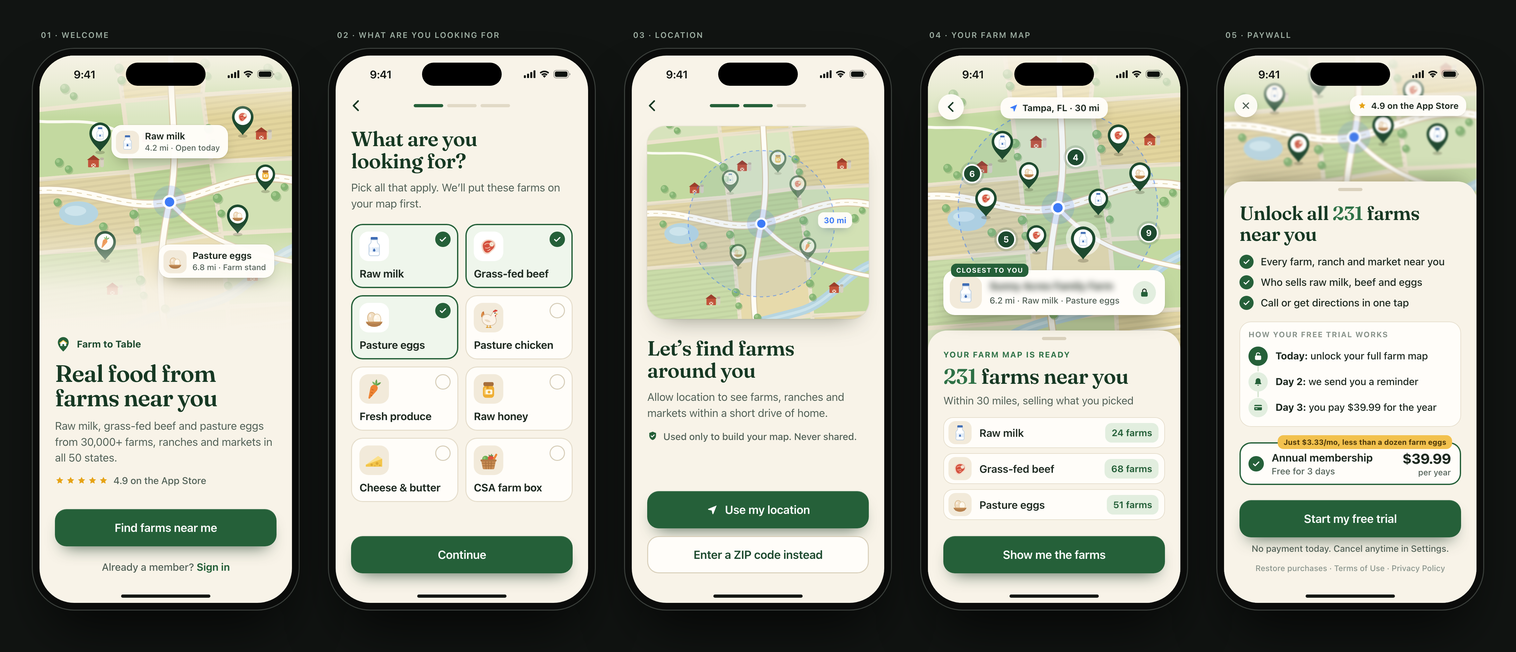
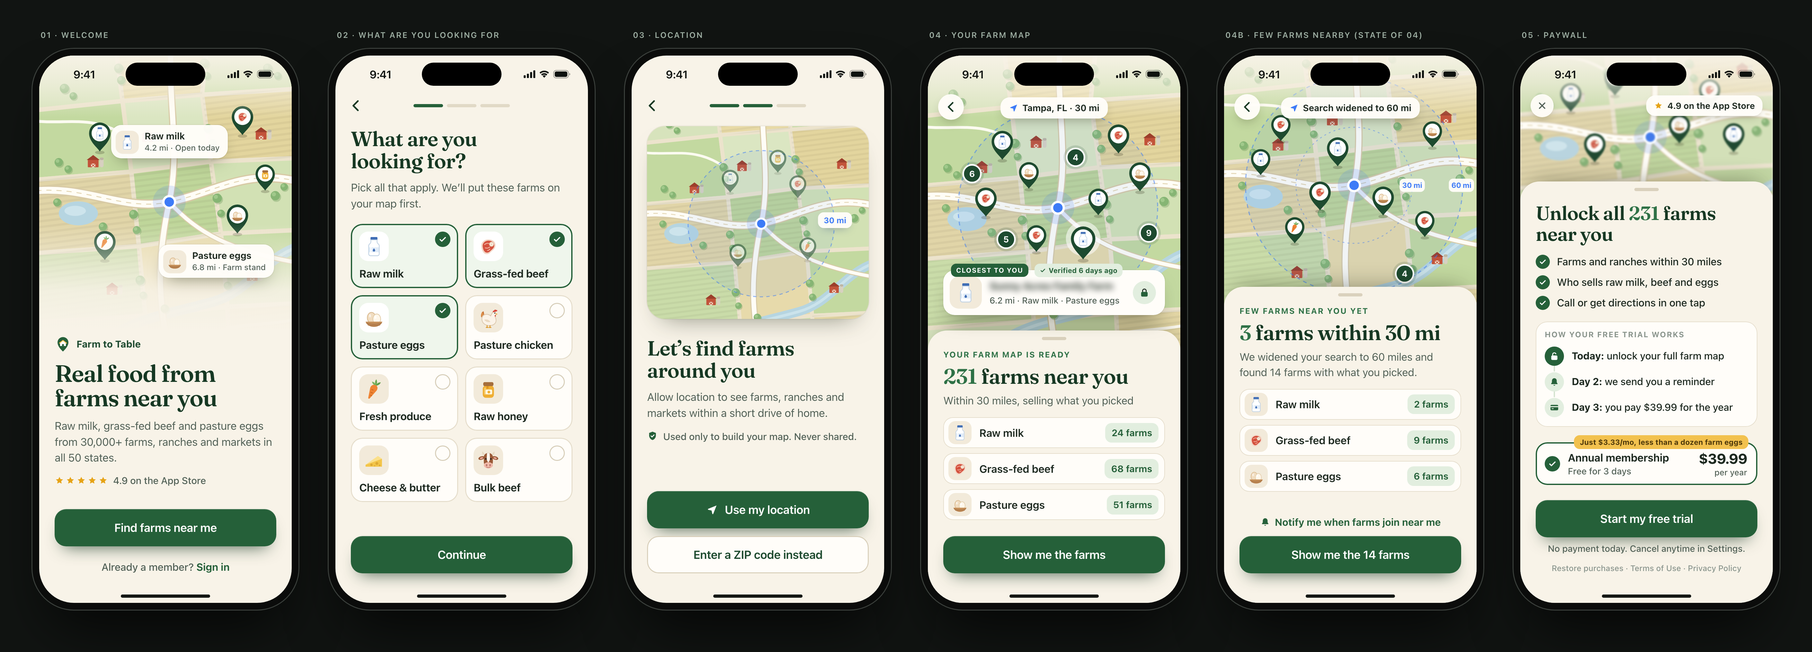
Add low-coverage state, verified badge and bulk beef tile after research

diff --git a/index.html b/index.html
@@ -11,7 +11,7 @@
 <meta property="og:title" content="Farm to Table: онбординг и пейвол">
 <meta property="og:description" content="Тестовое задание на менеджера по монетизации: 4 экрана онбординга и пейвол, HTML в размере iPhone 393×852.">
 <meta property="og:image" content="https://nikit34.github.io/farm-to-table-onboarding/png/00_overview.png">
-<meta property="og:image:width" content="4720">
+<meta property="og:image:width" content="5640">
 <meta property="og:image:height" content="2030">
 <meta name="twitter:card" content="summary_large_image">
 <link rel="preconnect" href="https://fonts.googleapis.com">
@@ -36,7 +36,7 @@ html,body{background:#111412;color:#E6EBE7;font-family:var(--sans);-webkit-font-
 .tbtn{padding:11px 16px;border-radius:12px;background:#1E2420;color:#E6EBE7;font:600 14px/1 var(--sans);box-shadow:inset 0 0 0 1px #313933}
 .tbtn.on{background:#E6EBE7;color:#111412}
 
-.board{display:flex;flex-wrap:wrap;justify-content:center;gap:60px 44px;max-width:2400px;margin:0 auto;padding:40px 24px 30px}
+.board{display:flex;flex-wrap:wrap;justify-content:center;gap:60px 44px;max-width:2900px;margin:0 auto;padding:40px 24px 30px}
 .shot{width:417px;display:flex;flex-direction:column;align-items:center}
 .shot-label{align-self:flex-start;margin:0 0 14px 14px;color:#9FB0A4;font:600 12.5px/1 var(--sans);letter-spacing:1.4px;text-transform:uppercase}
 .frame{width:417px;height:876px;padding:12px;border-radius:66px;background:#0B0C0B;box-shadow:inset 0 0 0 1.5px #3B403C,0 50px 90px -30px rgba(0,0,0,.75)}
@@ -66,7 +66,7 @@ html,body{background:#111412;color:#E6EBE7;font-family:var(--sans);-webkit-font-
 
 .map.hero{top:0;left:0;right:0;height:452px}
 .map.hero:after{content:"";position:absolute;left:0;right:0;bottom:0;height:190px;background:linear-gradient(180deg,rgba(248,243,232,0) 0%,rgba(248,243,232,.88) 55%,var(--cream) 88%)}
-.map.hero:before,.map.full:before,.map.strip:before{content:"";position:absolute;z-index:1;left:0;right:0;top:0;height:96px;background:linear-gradient(180deg,rgba(248,243,232,.94) 0%,rgba(248,243,232,.6) 45%,rgba(248,243,232,0) 100%);pointer-events:none}
+.map.hero:before,.map.full:before,.map.strip:before,.map.low:before{content:"";position:absolute;z-index:1;left:0;right:0;top:0;height:96px;background:linear-gradient(180deg,rgba(248,243,232,.94) 0%,rgba(248,243,232,.6) 45%,rgba(248,243,232,0) 100%);pointer-events:none}
 .mchip{position:absolute;z-index:5;display:flex;align-items:center;gap:9px;padding:7px 13px 7px 7px;border-radius:16px;background:rgba(255,253,249,.97);box-shadow:0 12px 26px -12px rgba(45,52,30,.55),0 0 0 1px rgba(60,50,20,.06)}
 .mchip .mi{width:36px;height:36px;border-radius:11px;background:var(--cream2);display:grid;place-items:center}
 .mchip .mi svg{width:27px;height:27px}
@@ -172,7 +172,13 @@ html,body{background:#111412;color:#E6EBE7;font-family:var(--sans);-webkit-font-
 .fine{position:absolute;z-index:21;left:0;right:0;bottom:76px;text-align:center;color:var(--ink2);font:500 14px/1.2 var(--sans)}
 .legal{position:absolute;z-index:21;left:0;right:0;bottom:48px;text-align:center;color:var(--ink3);font:500 12.5px/1 var(--sans)}
 
-.extra{max-width:1320px;margin:0 auto;padding:10px 32px 70px;display:grid;grid-template-columns:1.25fr 1fr;gap:28px}
+.extra{max-width:1320px;margin:0 auto;padding:10px 32px 70px;display:grid;grid-template-columns:1.25fr 1fr;gap:28px;align-items:start}
+.extra .col{display:flex;flex-direction:column;gap:28px}
+.fc-tag.v{left:142px;display:flex;align-items:center;gap:4px;background:var(--g100);color:var(--g700);letter-spacing:0;text-transform:none;font-size:11px}
+.fc-tag.v svg{width:10px;height:10px}
+.map.low{top:0;left:0;right:0;height:400px}
+.notify{position:absolute;z-index:21;left:0;right:0;bottom:118px;display:flex;align-items:center;justify-content:center;gap:7px;color:var(--g700);font:650 15.5px/1 var(--sans)}
+.notify svg{width:16px;height:16px;fill:currentColor}
 .card{padding:26px 28px;border-radius:22px;background:#181D19;box-shadow:inset 0 0 0 1px #262E28}
 .card h2{font-family:var(--serif);font-weight:600;font-size:24px;letter-spacing:-.2px;color:#F4F1E8}
 .card p,.card li{margin-top:12px;color:#C4CEC7;font-size:15px;line-height:1.62}
@@ -341,14 +347,19 @@ body.overview .pulse{animation:none;opacity:.16}
     <path d="M6.6 33.2L40.6 20.8L32.2 15.2Z" fill="#FBE08A"/>
     <circle cx="18.8" cy="33.4" r="2.4" fill="#DCA835"/><circle cx="30" cy="30.6" r="2.9" fill="#DCA835"/><circle cx="35.8" cy="34.6" r="1.6" fill="#DCA835"/><circle cx="25.4" cy="35.6" r="1.2" fill="#DCA835"/>
   </symbol>
-  <symbol id="ic-basket" viewBox="0 0 48 48">
-    <circle cx="17.6" cy="21.4" r="6.8" fill="#6FAE55"/><circle cx="15.4" cy="19.4" r="2.6" fill="#8CC571"/>
-    <circle cx="28.8" cy="20.2" r="6.2" fill="#DE523D"/>
-    <path d="M28.8 14.4l1.6-2.6M26.8 14.9l-1.9-1.6M30.9 15l2-1" stroke="#4E8A3E" stroke-width="1.7" stroke-linecap="round"/>
-    <path d="M34.2 23.4L40 12.6" stroke="#EE8434" stroke-width="4.2" stroke-linecap="round"/>
-    <path d="M8.8 24.6h30.4l-3 15.6a3 3 0 0 1-3 2.5H14.8a3 3 0 0 1-3-2.5z" fill="#C98E55"/>
-    <path d="M10.4 30.2h27.2M11.4 35.6h25.2M18 24.6l1 18M24 24.6v18M30 24.6l-1 18" stroke="#A8703D" stroke-width="1.5"/>
-    <rect x="7.4" y="22.4" width="33.2" height="4.2" rx="2.1" fill="#B37A45"/>
+  <symbol id="ic-bulk" viewBox="0 0 48 48">
+    <path d="M13.4 13.2c-2.4-2.3-3-5.4-1.7-7.6 1.6 1.4 3.4 3.4 4.6 5.6z" fill="#E6D9C2"/>
+    <path d="M34.6 13.2c2.4-2.3 3-5.4 1.7-7.6-1.6 1.4-3.4 3.4-4.6 5.6z" fill="#E6D9C2"/>
+    <ellipse cx="9.6" cy="19.4" rx="6.4" ry="3.6" transform="rotate(-18 9.6 19.4)" fill="#9A5A37"/>
+    <ellipse cx="9.9" cy="19.6" rx="3.6" ry="1.8" transform="rotate(-18 9.9 19.6)" fill="#E8A898"/>
+    <ellipse cx="38.4" cy="19.4" rx="6.4" ry="3.6" transform="rotate(18 38.4 19.4)" fill="#9A5A37"/>
+    <ellipse cx="38.1" cy="19.6" rx="3.6" ry="1.8" transform="rotate(18 38.1 19.6)" fill="#E8A898"/>
+    <path d="M14.6 17.4c0-5 4.2-8.6 9.4-8.6s9.4 3.6 9.4 8.6v9.8c0 2.4-.6 4.6-1.8 6.4H16.4c-1.2-1.8-1.8-4-1.8-6.4z" fill="#9A5A37"/>
+    <path d="M21.2 9.3c.8-.3 1.8-.5 2.8-.5s2 .2 2.8.5l.6 10.4c.2 3.4-1.1 6.6-3.4 8.8-2.3-2.2-3.6-5.4-3.4-8.8z" fill="#FBF6EE"/>
+    <circle cx="18.8" cy="21.2" r="1.7" fill="#2A2320"/><circle cx="29.2" cy="21.2" r="1.7" fill="#2A2320"/>
+    <ellipse cx="24" cy="34.4" rx="9.4" ry="6.4" fill="#F0B9A8"/>
+    <ellipse cx="20.4" cy="34.2" rx="1.6" ry="2.2" fill="#B8726A"/><ellipse cx="27.6" cy="34.2" rx="1.6" ry="2.2" fill="#B8726A"/>
+    <path d="M20.2 38.2c2.4 1.4 5.2 1.4 7.6 0" fill="none" stroke="#B8726A" stroke-width="1.2" stroke-linecap="round"/>
   </symbol>
 
   <symbol id="logo" viewBox="0 0 32 32">
@@ -377,7 +388,7 @@ body.overview .pulse{animation:none;opacity:.16}
 
 <header class="page-head">
   <h1>Farm to Table: онбординг и пейвол</h1>
-  <p>Тестовое задание на менеджера по монетизации, Viralyze. Четыре экрана онбординга и пейвол в реальном размере iPhone 15 и 16 (393×852 pt), тексты на английском. Всё кликабельно: выбор продуктов на втором экране меняет экран с фермами и текст пейвола, кнопки ведут дальше по воронке.</p>
+  <p>Тестовое задание на менеджера по монетизации, Viralyze. Четыре экрана онбординга и пейвол в реальном размере iPhone 15 и 16 (393×852 pt), плюс состояние экрана 4 для района, где мало ферм. Тексты на английском. Всё кликабельно: выбор продуктов на втором экране меняет экран с фермами и текст пейвола, кнопки ведут дальше по воронке.</p>
   <div class="toolbar">
     <button class="tbtn on" data-mode="board">Все экраны</button>
     <button class="tbtn" data-mode="proto">Пройти как прототип</button>
@@ -427,7 +438,7 @@ body.overview .pulse{animation:none;opacity:.16}
     </div></div>
     <div class="note">
       <p><b>Зачем.</b> Один вопрос вместо цепочки «ценности, диета, категории, стейплы». Ответ работает дважды: на экране 4 показываем фермы по выбранным продуктам, в пейволе подставляем их в текст.</p>
-      <p><b>Крупные плитки</b> с иллюстрацией и подписью от 16 px, выбор без лимита: аудитории 35-65 так проще, чем мелкие чипсы.</p>
+      <p><b>Крупные плитки</b> с иллюстрацией и подписью от 16 px, выбор без лимита: аудитории 35-65 так проще, чем мелкие чипсы. <b>Bulk beef</b> вместо CSA-бокса: покупка говядины тушей у ранчо - гипотеза сегмента с крупным чеком и возможной платой за лид, и выбор этой плитки даёт данные о спросе без разработки.</p>
       <p><b>Метрика:</b> доля завершивших шаг, среднее число выбранных продуктов.</p>
     </div>
   </section>
@@ -465,6 +476,7 @@ body.overview .pulse{animation:none;opacity:.16}
       <div class="citytag"><svg><use href="#i-nav"/></svg>Tampa, FL · 30 mi</div>
       <div class="farmcard">
         <span class="fc-tag">Closest to you</span>
+        <span class="fc-tag v"><svg><use href="#i-check"/></svg>Verified 6 days ago</span>
         <span class="fc-ic"><svg><use href="#ic-milk"/></svg></span>
         <div class="fc-body"><div class="fc-name"><span class="blur">Sunny Acres Family Farm</span></div><div class="fc-meta">6.2 mi · Raw milk · Pasture eggs</div></div>
         <span class="fc-lock"><svg><use href="#i-lock"/></svg></span>
@@ -482,9 +494,37 @@ body.overview .pulse{animation:none;opacity:.16}
       <div class="homebar"></div>
     </div></div>
     <div class="note">
-      <p><b>Главный экран воронки.</b> До оплаты показываем реальное число ферм рядом и карточку ближайшей фермы со скрытым названием. Это ответ на частую жалобу в отзывах Localize и Farm to Table: просят платить раньше, чем видно, есть ли фермы рядом («After I signed up it only showed one farm in all of Marin County»).</p>
-      <p><b>Если ферм мало,</b> показываем честную версию с большим радиусом: меньше отмен в триале, рефандов и отзывов с одной звездой.</p>
-      <p><b>Метрика:</b> CTR в пейвол, отмены триала и рефанды в разрезе покрытия региона.</p>
+      <p><b>Главный экран воронки.</b> В V2 похожий экран уже есть на шаге 10 из 29 («231 farms near you»). Здесь меняются три вещи: число считается из базы по радиусу и выбранным продуктам, экран стоит прямо перед пейволом, а карточка ближайшей фермы со скрытым названием показывает, что откроется после оплаты.</p>
+      <p><b>Дата проверки</b> на карточке отвечает на первую жалобу всей категории, включая бесплатные приложения: закрытые и несуществующие фермы. Её не показывает ни один из восьми конкурентов. Бейдж «Verified» только у ферм, которые реально проверили звонком или SMS, у остальных честное «Updated» с датой.</p>
+      <p><b>Метрика:</b> CTR в пейвол, trial → paid и рефанды в разрезе покрытия района.</p>
+    </div>
+  </section>
+
+  <section class="shot" data-n="4b">
+    <div class="shot-label">04b · Few farms nearby (state of 04)</div>
+    <div class="frame"><div class="phone" lang="en">
+      <div class="island"></div>
+      <div class="sb"><span>9:41</span><span class="ic"><svg width="18" height="12"><use href="#sb-signal"/></svg><svg width="16" height="12"><use href="#sb-wifi"/></svg><svg width="27" height="13"><use href="#sb-batt"/></svg></span></div>
+      <div class="map low" data-map="low"></div>
+      <button class="mapbtn" data-go="3" aria-label="Back"><svg><use href="#i-chev"/></svg></button>
+      <div class="citytag"><svg><use href="#i-nav"/></svg>Search widened to 60 mi</div>
+      <div class="sheet s4" style="top:360px">
+        <div class="handle"></div>
+        <div class="sheet-in">
+          <div class="eyebrow">Few farms near you yet</div>
+          <h1 class="title"><span class="num">3</span> farms within 30 mi</h1>
+          <p class="sub">We widened your search to 60 miles and found 14 farms with what you picked.</p>
+          <div class="rows" id="rowsLow"></div>
+        </div>
+      </div>
+      <div class="notify"><svg><use href="#i-bell"/></svg>Notify me when farms join near me</div>
+      <button class="cta" data-go="5" style="bottom:46px">Show me the 14 farms</button>
+      <div class="homebar"></div>
+    </div></div>
+    <div class="note">
+      <p><b>Состояние экрана 4, а не отдельный шаг.</b> Если в 30 милях меньше 10 ферм, радиус сам расширяется до 60, потом до 100 миль, и экран честно называет цифры. Если ферм нет и в 100 милях, пейвол не показываем, остаётся «Notify me when farms join».</p>
+      <p><b>Зачем.</b> У Farm to Table уже есть отзывы «одна ферма на весь Marin County» и требование вернуть деньги. Честный экран снижает рефанды и заодно показывает, в каких районах реклама не окупится: туда её лучше не закупать.</p>
+      <p><b>Метрика:</b> доля показов этого состояния, trial → paid и рефанды в нём против экрана 4.</p>
     </div>
   </section>
 
@@ -501,7 +541,7 @@ body.overview .pulse{animation:none;opacity:.16}
         <div class="sheet-in">
           <h1 class="title">Unlock all <span class="num">231</span> farms<br>near you</h1>
           <ul class="benefits">
-            <li><span class="bi"><svg><use href="#i-check"/></svg></span>Every farm, ranch and market near you</li>
+            <li><span class="bi"><svg><use href="#i-check"/></svg></span>Farms and ranches within 30 miles</li>
             <li><span class="bi"><svg><use href="#i-check"/></svg></span><span id="sells">Who sells raw milk, beef and eggs</span></li>
             <li><span class="bi"><svg><use href="#i-check"/></svg></span>Call or get directions in one tap</li>
           </ul>
@@ -525,7 +565,7 @@ body.overview .pulse{animation:none;opacity:.16}
       <div class="homebar"></div>
     </div></div>
     <div class="note">
-      <p><b>Зачем.</b> Заголовок продолжает экран 4, продукты в списке подставляются из шага 2. Таймлайн триала с напоминанием на второй день взят у AllTrails и PictureThis: у аудитории 35-65 частый страх перед триалом - незаметное списание.</p>
+      <p><b>Зачем.</b> Заголовок продолжает экран 4, продукты в списке подставляются из шага 2. Таймлайн триала с напоминанием на второй день взят у AllTrails и PictureThis: у аудитории 35-65 частый страх перед триалом - незаметное списание. По RevenueCat, около 55% отмен 3-дневного триала приходится на день оформления, поэтому обещание должно совпадать с тем, что человек сразу увидит на карте: отсюда «within 30 miles», а не «every farm».</p>
       <p><b>Цена.</b> Годовая $39.99 крупнее пересчёта в месяц, как требует Apple (App Review 3.1.2). Вместо зачёркнутой цены якорь из жизни ЦА: $3.33 в месяц дешевле дюжины фермерских яиц ($6.20 в вашем же квизе).</p>
       <p><b>A/B против V1:</b> trial → pay и выручка на установку по когортам 30 дней, плюс рефанды. Плашку распродажи из V1.1 можно добавить через тот же remote config, если она выиграет.</p>
     </div>
@@ -536,9 +576,10 @@ body.overview .pulse{animation:none;opacity:.16}
 <section class="extra">
   <div class="card">
     <h2>Как делал</h2>
-    <ul class="proc"><li><b>Референсы.</b> Конкуренты из App Store по «farmers market»: <a href="https://apps.apple.com/us/app/localize-farmers-market/id6756440767">Localize</a> на 16 тыс. оценок и Locally Grown, плюс отзывы на них и на <a href="https://apps.apple.com/us/app/farm-to-table-farmers-market/id6775965172">Farm to Table</a>. Главная жалоба: оплату просят раньше, чем видно, есть ли фермы рядом, поэтому экран с числом ферм стоит до пейвола.</li><li><b>Пейвол.</b> Собран по паттернам из библиотеки <a href="https://paywallscreens.com">paywallscreens</a> от Superwall: у AllTrails взял карту сверху и таймлайн триала, у Fishbrain пины на карте рядом с пользователем, у PictureThis ту же цену $39.99 в год с пересчётом в месяц и напоминание до конца триала, а его аудитория ближе всего к нашим 35-65.</li><li><b>Инструменты.</b> Всё собрано в Claude (Claude Code): HTML в размере iPhone 393×852, иллюстрации карты и иконки продуктов нарисованы им же в SVG, без стоков и дизайнера, английские тексты тоже писал с ним, с упором на тон для американцев 35-65.</li><li><b>Постановка.</b> Задачу поставил одним брифом, он ниже, дальше правил по скриншотам каждого экрана.</li><li><b>Итерации.</b> Четыре: структура и тексты, чистка наложений по скриншотам, исправление бага с пустыми строками на экране 4 и новая иконка курицы вместо окорочка, который читался как апельсин, финальная полировка и экспорт PNG в 3x.</li></ul>
+    <ul class="proc"><li><b>Референсы.</b> Конкуренты из App Store по «farmers market» (<a href="https://apps.apple.com/us/app/localize-farmers-market/id6756440767">Localize</a> на 16 тыс. оценок, Locally Grown, Farmstand, Soko) и 32 отзыва на них и на <a href="https://apps.apple.com/us/app/farm-to-table-farmers-market/id6775965172">Farm to Table</a>, разобранные по AJTBD: главная жалоба всей категории - закрытые фермы и пустые районы, которые видно только после оплаты, поэтому число ферм стоит прямо перед пейволом, а у пустого района есть честное состояние.</li><li><b>Пейвол.</b> Собран по паттернам из библиотеки <a href="https://paywallscreens.com">paywallscreens</a> от Superwall: у AllTrails взял карту сверху и таймлайн триала, у Fishbrain пины на карте рядом с пользователем, у PictureThis ту же цену $39.99 в год с пересчётом в месяц и напоминание до конца триала, а его аудитория ближе всего к нашим 35-65.</li><li><b>Инструменты.</b> Всё собрано в Claude (Claude Code): HTML в размере iPhone 393×852, иллюстрации карты и иконки продуктов нарисованы им же в SVG, без стоков и дизайнера, английские тексты тоже писал с ним, с упором на тон для американцев 35-65.</li><li><b>Постановка.</b> Задачу поставил одним брифом, он ниже, дальше правил по скриншотам каждого экрана.</li><li><b>Итерации.</b> Пять: структура и тексты; чистка наложений по скриншотам; исправление бага с пустыми строками на экране 4 и новая иконка курицы вместо окорочка, который читался как апельсин; полировка и экспорт PNG в 3x; после разбора отзывов, конкурентов и трендов - состояние для района с малым покрытием, дата проверки на карточке фермы, плитка Bulk beef вместо CSA-бокса и честная формулировка первой выгоды в пейволе.</li></ul>
     <div class="prompt" id="promptText">Собери в одном HTML пять экранов iPhone 393×852 для Farm to Table: карта ферм и фермерских рынков в США, ЦА 35-65, подписка $39.99 в год с 3 днями бесплатно. Экраны: приветствие, выбор продуктов, праймер геолокации с запасным ZIP-кодом, «231 ферма рядом» с карточкой ближайшей фермы, где название скрыто, и пейвол. Референсы: пейволы AllTrails (карта сверху, таймлайн триала), Fishbrain (пины рядом с пользователем), PictureThis (та же цена, напоминание до конца триала). Стиль: тёплый кремовый фон, тёмно-зелёный бренд как в текущем приложении, заголовки serif, текст от 16 px, кнопки от 56 px. Иллюстрации карты и иконки продуктов нарисуй сам в SVG, без стоков. Тексты на английском, без таймеров и зачёркнутых цен, годовая цена крупнее пересчёта в месяц. Выбор продуктов на шаге 2 подставь в экран 4 и в текст пейвола.</div>
   </div>
+  <div class="col">
   <div class="card">
     <h2>Что заметил в живой воронке</h2>
     <ul>
@@ -547,20 +588,29 @@ body.overview .pulse{animation:none;opacity:.16}
       <li><b>Онбординг обещает сделки</b> и экономию $1,500 в год, а в списке того, что входит в подписку, сделок нет. Такой разрыв ожиданий бьёт по отменам триала и по отзывам, в App Store уже есть: «you have to be better than google search near me».</li>
     </ul>
   </div>
+  <div class="card">
+    <h2>С чего бы начал</h2>
+    <ul>
+      <li><b>Проверить, считается ли число 231 из базы.</b> Если это фиксированная цифра, жалобы вида «после оплаты одна ферма на округ» будут повторяться при любом пейволе.</li>
+      <li><b>Первым тестом - пейвол в Adapty</b> внутри текущего онбординга: без релиза, метрика trial → paid, при бенчмарке RevenueCat 25.5% нужно 1.2-2.1 тыс. триалов на вариант. Онбординг тестировать целиком и только на крупный эффект.</li>
+      <li><b>Закупать рекламу по плотности покрытия.</b> Где рядом мало ферм с нужным продуктом, онбординг не перевесит бесплатный Google Maps, а рефанды приходят как раз оттуда. Разделить кампании на плотные и тонкие районы и сравнить trial → paid и рефанды за 30 дней.</li>
+    </ul>
+  </div>
+  </div>
 </section>
 
 <script>
 const ITEMS = {
-  milk:{name:'Raw milk',short:'raw milk',count:24},
-  beef:{name:'Grass-fed beef',short:'beef',count:68},
-  eggs:{name:'Pasture eggs',short:'eggs',count:51},
-  chicken:{name:'Pasture chicken',short:'chicken',count:29},
-  veg:{name:'Fresh produce',short:'produce',count:142},
-  honey:{name:'Raw honey',short:'honey',count:57},
-  cheese:{name:'Cheese & butter',short:'cheese',count:33},
-  basket:{name:'CSA farm box',short:'CSA boxes',count:38}
+  milk:{name:'Raw milk',short:'raw milk',count:24,low:2},
+  beef:{name:'Grass-fed beef',short:'beef',count:68,low:9},
+  eggs:{name:'Pasture eggs',short:'eggs',count:51,low:6},
+  chicken:{name:'Pasture chicken',short:'chicken',count:29,low:3},
+  veg:{name:'Fresh produce',short:'produce',count:142,low:11},
+  honey:{name:'Raw honey',short:'honey',count:57,low:4},
+  cheese:{name:'Cheese & butter',short:'cheese',count:33,low:2},
+  bulk:{name:'Bulk beef',short:'bulk beef',count:19,low:3}
 };
-const ORDER = ['milk','beef','eggs','chicken','veg','honey','cheese','basket'];
+const ORDER = ['milk','beef','eggs','chicken','veg','honey','cheese','bulk'];
 const picked = new Set(['milk','beef','eggs']);
 
 function pin(x, y, icon, o = {}) {
@@ -579,6 +629,9 @@ function cluster(x, y, n) {
 function me(x, y) {
   return `<g transform="translate(${x} ${y})"><circle class="pulse" r="26" fill="#3D7BF7" opacity=".16"/><circle r="11" fill="#FFFFFF"/><circle r="7.5" fill="#3D7BF7"/></g>`;
 }
+function ringLabel(x, y, t) {
+  return `<g transform="translate(${x} ${y})"><rect x="-20" y="-10.5" width="40" height="21" rx="7" fill="#FFFDF9" opacity=".96"/><text y="4.3" text-anchor="middle" font-family="-apple-system,Inter,Arial,sans-serif" font-size="11.5" font-weight="700" fill="#3D7BF7">${t}</text></g>`;
+}
 function ring(x, y, r) {
   return `<circle cx="${x}" cy="${y}" r="${r}" fill="#3D7BF7" fill-opacity=".07" stroke="#3D7BF7" stroke-opacity=".55" stroke-width="1.7" stroke-dasharray="6 6"/>`;
 }
@@ -587,6 +640,10 @@ const MAPS = {
   loc: () => ring(206, 252, 132) + pin(150, 196, 'milk', {op:.55, s:.9}) + pin(272, 206, 'beef', {op:.55, s:.9}) + pin(164, 330, 'eggs', {op:.55, s:.9}) + pin(290, 318, 'veg', {op:.55, s:.9}) + pin(236, 160, 'honey', {op:.55, s:.9}) + me(206, 252),
   reveal: () => ring(206, 252, 158) + cluster(70, 198, 6) + cluster(350, 292, 9) + cluster(234, 172, 4) + cluster(124, 302, 5)
     + pin(118, 176, 'milk') + pin(302, 166, 'beef') + pin(160, 222, 'eggs', {s:.92}) + pin(336, 226, 'eggs') + pin(92, 266, 'beef') + pin(270, 264, 'milk', {s:.92}) + pin(172, 322, 'beef', {s:.92}) + pin(246, 334, 'milk', {s:1.14, hi:true}) + me(206, 252),
+  low: () => ring(206, 252, 172) + '<circle cx="206" cy="252" r="92" fill="none" stroke="#3D7BF7" stroke-opacity=".45" stroke-width="1.4" stroke-dasharray="3 5"/>'
+    + pin(90, 182, 'beef', {s:.9}) + pin(330, 192, 'eggs', {s:.9}) + pin(112, 344, 'veg', {s:.9}) + pin(318, 334, 'beef', {s:.9}) + pin(58, 236, 'milk', {s:.9}) + cluster(286, 392, 4)
+    + pin(180, 222, 'milk') + pin(252, 300, 'eggs') + pin(152, 292, 'beef')
+    + ringLabel(298, 252, '30 mi') + ringLabel(376, 252, '60 mi') + me(206, 252),
   pay: () => pin(80, 212, 'milk') + pin(150, 186, 'eggs') + pin(300, 206, 'beef') + pin(338, 276, 'milk') + pin(118, 292, 'beef') + pin(252, 262, 'eggs') + me(206, 252)
 };
 function mapSVG(key) {
@@ -612,6 +669,8 @@ function renderDynamic() {
   const rows = keys.slice(0, 3);
   document.getElementById('rows').innerHTML = rows.map(k => `
     <div class="row"><span class="ri"><svg><use href="#ic-${k}"/></svg></span><span class="rl">${ITEMS[k].name}</span><span class="rc">${ITEMS[k].count} farms</span></div>`).join('');
+  document.getElementById('rowsLow').innerHTML = rows.map(k => `
+    <div class="row"><span class="ri"><svg><use href="#ic-${k}"/></svg></span><span class="rl">${ITEMS[k].name}</span><span class="rc">${ITEMS[k].low} farms</span></div>`).join('');
   document.getElementById('revealSub').textContent = keys.length > 3
     ? `Within 30 miles, selling ${keys.length} things you picked`
     : 'Within 30 miles, selling what you picked';
@@ -631,35 +690,37 @@ document.getElementById('tiles').addEventListener('click', e => {
 renderTiles();
 renderDynamic();
 
+const SEQ = ['1', '2', '3', '4', '5'];
 const shots = [...document.querySelectorAll('.shot')];
-function show(n) {
-  shots.forEach(s => s.classList.toggle('cur', +s.dataset.n === n));
+function show(key) {
+  shots.forEach(s => s.classList.toggle('cur', s.dataset.n === String(key)));
 }
 document.addEventListener('click', e => {
   const m = e.target.closest('[data-mode]');
   if (m) {
     document.querySelectorAll('[data-mode]').forEach(b => b.classList.toggle('on', b === m));
     document.body.classList.toggle('proto', m.dataset.mode === 'proto');
-    show(1);
+    show('1');
     return;
   }
   const g = e.target.closest('[data-go]');
   if (!g || g.disabled) return;
-  const n = +g.dataset.go;
+  const n = g.dataset.go;
   if (document.body.classList.contains('proto')) { show(n); return; }
-  const target = shots[n - 1];
+  const target = document.querySelector(`.shot[data-n="${n}"]`);
   target.scrollIntoView({behavior: 'smooth', block: 'nearest', inline: 'center'});
   target.animate([{transform: 'translateY(0)'}, {transform: 'translateY(-8px)'}, {transform: 'translateY(0)'}], {duration: 420, easing: 'ease-out'});
 });
 document.addEventListener('keydown', e => {
   if (!document.body.classList.contains('proto')) return;
-  const cur = shots.findIndex(s => s.classList.contains('cur')) + 1;
-  if (e.key === 'ArrowRight' && cur < 5) show(cur + 1);
-  if (e.key === 'ArrowLeft' && cur > 1) show(cur - 1);
+  const cur = (shots.find(s => s.classList.contains('cur')) || {dataset: {}}).dataset.n;
+  const i = SEQ.indexOf(cur);
+  if (e.key === 'ArrowRight' && i > -1 && i < SEQ.length - 1) show(SEQ[i + 1]);
+  if (e.key === 'ArrowLeft' && i > 0) show(SEQ[i - 1]);
 });
 
 const params = new URLSearchParams(location.search);
-if (params.get('shot')) { document.body.classList.add('shotmode'); show(+params.get('shot')); }
+if (params.get('shot')) { document.body.classList.add('shotmode'); show(params.get('shot')); }
 if (params.get('overview')) { document.body.classList.add('overview'); }
 function fit() {
   if (document.body.classList.contains('shotmode')) return;
